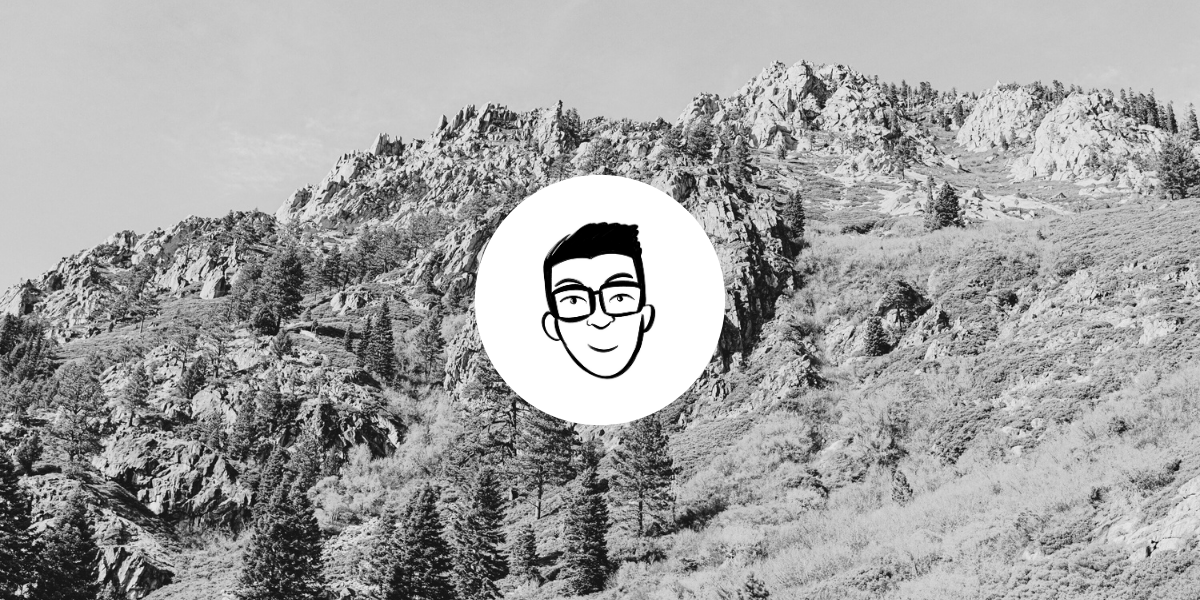
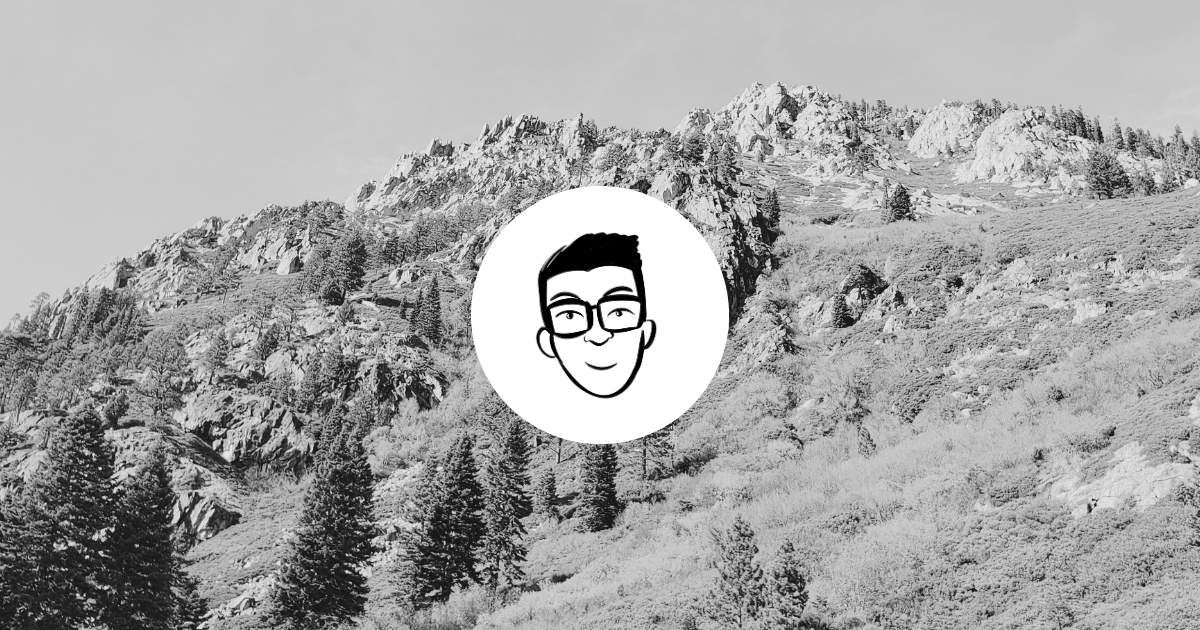
Update og tags

diff --git a/writing/20/index.html b/writing/20/index.html
@@ -3,8 +3,8 @@
 	<meta charset="UTF-8" />
 	<meta http-equiv="X-UA-Compatible" content="IE=edge,chrome=1">
 	<meta name="viewport" content="width=device-width, initial-scale=1.0">
-	<title>Frank Chen</title>
-	<meta name="description" content="PM @ Microsoft" />
+	<title>Turning 20 · Frank Chen</title>
+	<meta name="description" content="Product work on AI &amp; personalization at Tubi. Previously Typeface, Twitter, &amp; Microsoft. Drawing, photos, and writing" />
 	<meta name="keywords" content="" />
 	<meta name="author" content="kfrankc" />
 
@@ -39,8 +39,10 @@ Turning 20 is amazing. The moment when the tens-digit of your age changes is alw
     <meta property="article:section" content="writing">
     <meta property="article:published_time" content="2015-01-04T00:00:00+00:00">
     <meta property="article:modified_time" content="2015-01-04T00:00:00+00:00">
-    <meta property="og:image" content="https://kfrankc.com/">
+    <meta property="og:image" content="https://kfrankc.com/card.png">
 
+	<meta property="og:image:width" content="1200" />
+	<meta property="og:image:height" content="630" />
 	
       <script async src="https://www.googletagmanager.com/gtag/js?id=G-366849346"></script>
       <script>
@@ -58,7 +60,7 @@ Turning 20 is amazing. The moment when the tens-digit of your age changes is alw
       </script>
 	
   <meta name="twitter:card" content="summary_large_image">
-  <meta name="twitter:image" content="https://kfrankc.com/">
+  <meta name="twitter:image" content="https://kfrankc.com/card.png">
   <meta name="twitter:title" content="Turning 20">
   <meta name="twitter:description" content="Yesterday, my parents celebrated my birthday early, because I’ll be at college during my actual birthday later in January. Usually, I reflect about being 1 year older AFTER my birthday, but since I’ve been having this ‘early celebration’ for a while, so I thought I’ll jot down some of my thoughts about the big two-zero now.
 Turning 20 is amazing. The moment when the tens-digit of your age changes is always a milestone. Turning 20 brings much introspection. I am near the middle of my college career, and my thoughts about occupations, relationships, and ‘oh no what am i going to do with my life’ are all slowly conglomerating into this fantastic but subtle transition from teenager to adult. Turning 20 gives me strength. To my surprise. I feel more energetic now than I have ever before, but I have to give that energy direction and purpose. Kind of like an adolescent padawan — full of the youthful force, but not sure where to use it and how to use it correctly. Turning 20 reinforces me to keep an open-mind. Looking back, all my life experiences — the places I lived in; the high schools I went to; the jobs I worked at — they all taught me one, simple, universal truth about human beings: we all have a story. Not necessarily a story to tell, but a story; it could be simple, complex, sad, happy, exciting, plain, but it is a unique story. Some told their story to the world and inspired millions of people; some shared their story with their close families; some kept their stories to themselves. Such a beautiful world we live in! Misunderstandings happen, and people are sensitive, especially among the young adult population; I aspire to be someone who is willing to listen; I aspire to be a story listener. Turning 20 scares me, just a little. Well. I guess I am not scared by the fact that I am turning 20, but more likely by the fact that time inconspicuously flies by. Time has an interesting property to be warped in our perception; I guess it’s not something that can be explained by physics, but it seemed like yesterday when I was posing for a photo in front of my kindergarten in China, before my first day of school. However, I believe time is fair. We all age the same; it is up to us to decide what we want to accomplish every year. Turning 20 excites me. I look forward to all that I will learn, all that I will experience. Here’s to a great year.">

diff --git a/writing/human-intelligence/index.html b/writing/human-intelligence/index.html
@@ -3,8 +3,8 @@
 	<meta charset="UTF-8" />
 	<meta http-equiv="X-UA-Compatible" content="IE=edge,chrome=1">
 	<meta name="viewport" content="width=device-width, initial-scale=1.0">
-	<title>Frank Chen</title>
-	<meta name="description" content="PM @ Microsoft" />
+	<title>Human learning &amp; intelligence · Frank Chen</title>
+	<meta name="description" content="Product work on AI &amp; personalization at Tubi. Previously Typeface, Twitter, &amp; Microsoft. Drawing, photos, and writing" />
 	<meta name="keywords" content="" />
 	<meta name="author" content="kfrankc" />
 
@@ -39,8 +39,10 @@ In the prior section, Prof. Zhu gives an extended example of a common crow that 
     <meta property="article:section" content="writing">
     <meta property="article:published_time" content="2018-01-08T00:00:00+00:00">
     <meta property="article:modified_time" content="2018-01-08T00:00:00+00:00">
-    <meta property="og:image" content="https://kfrankc.com/">
+    <meta property="og:image" content="https://kfrankc.com/card.png">
 
+	<meta property="og:image:width" content="1200" />
+	<meta property="og:image:height" content="630" />
 	
       <script async src="https://www.googletagmanager.com/gtag/js?id=G-366849346"></script>
       <script>
@@ -58,7 +60,7 @@ In the prior section, Prof. Zhu gives an extended example of a common crow that 
       </script>
 	
   <meta name="twitter:card" content="summary_large_image">
-  <meta name="twitter:image" content="https://kfrankc.com/">
+  <meta name="twitter:image" content="https://kfrankc.com/card.png">
   <meta name="twitter:title" content="Human learning & intelligence">
   <meta name="twitter:description" content="I recently finished reading Prof. Song-Chun Zhu’s 60K&#43; character article on Artificial Intelligence (AI) over the holidays. One part of Prof. Zhu’s essay that caught my attention was Section 4, where he discusses the cognitive framework of AI research.
 In the prior section, Prof. Zhu gives an extended example of a common crow that not only learned how to take advantage of passing cars to crack open nuts for the bird to eat, but also intentionally dropping the nut on pedestrian crosswalks so that the bird won’t be run over by vehicles as it swoops down to eat the nut. Prof. Zhu postulates that the crow’s intelligence is a direct product of both its physical environment and its will to survive. He calls these 物理环境客观的现实与因果链条 (objective reality of the physical environment and the causal chain) and 智能物种与生俱来的任务与价值链条 (inherent task of intelligent species and value chain). An agent that exhibits these two conditions will be able to live autonomously when placed in a given environment and social group. In fact, the agent will learn the following: “认识世界、利用世界、改造世界”.">

diff --git a/writing/lukas-wangfeng/index.html b/writing/lukas-wangfeng/index.html
@@ -3,8 +3,8 @@
 	<meta charset="UTF-8" />
 	<meta http-equiv="X-UA-Compatible" content="IE=edge,chrome=1">
 	<meta name="viewport" content="width=device-width, initial-scale=1.0">
-	<title>Frank Chen</title>
-	<meta name="description" content="PM @ Microsoft" />
+	<title>Lukas Graham &amp; 汪峰 · Frank Chen</title>
+	<meta name="description" content="Product work on AI &amp; personalization at Tubi. Previously Typeface, Twitter, &amp; Microsoft. Drawing, photos, and writing" />
 	<meta name="keywords" content="" />
 	<meta name="author" content="kfrankc" />
 
@@ -39,8 +39,10 @@
     <meta property="article:section" content="writing">
     <meta property="article:published_time" content="2018-03-13T00:00:00+00:00">
     <meta property="article:modified_time" content="2018-03-13T00:00:00+00:00">
-    <meta property="og:image" content="https://kfrankc.com/">
+    <meta property="og:image" content="https://kfrankc.com/card.png">
 
+	<meta property="og:image:width" content="1200" />
+	<meta property="og:image:height" content="630" />
 	
       <script async src="https://www.googletagmanager.com/gtag/js?id=G-366849346"></script>
       <script>
@@ -58,7 +60,7 @@
       </script>
 	
   <meta name="twitter:card" content="summary_large_image">
-  <meta name="twitter:image" content="https://kfrankc.com/">
+  <meta name="twitter:image" content="https://kfrankc.com/card.png">
   <meta name="twitter:title" content="Lukas Graham & 汪峰">
   <meta name="twitter:description" content="Last night at home, I heard Chinese singer 汪峰’s hit song from 2017, titled ‘那年我五岁’ (That year when I was five), and surprisingly, I found that the lyrics and even the music video parallels the song ‘7 Years’ from Danish band Lukas Graham. After scrolling through the Internet, I have yet to find anyone else juxtaposing these two songs; henceforth, here’s my take:
 ‘7 Years’ is a single from Lukas Graham’s second studio album, released on September 15, 2015. It topped at #2 at Billboard Hot 100, and was nominated for three Grammy Awards: Record of the Year, Song of the Year, and Best Pop Duo/Group Performance. ‘那年我五岁’ is 汪峰’s latest single, released on October 12, 2017. 汪峰 actually took a 5 month break from performances and concerts to concentrate and work on this song. It is a very long song, clocking in at 10 minutes 45 seconds.">

diff --git a/writing/query-languages/index.html b/writing/query-languages/index.html
@@ -3,8 +3,8 @@
 	<meta charset="UTF-8" />
 	<meta http-equiv="X-UA-Compatible" content="IE=edge,chrome=1">
 	<meta name="viewport" content="width=device-width, initial-scale=1.0">
-	<title>Frank Chen</title>
-	<meta name="description" content="PM @ Microsoft" />
+	<title>Relational algebra &amp; SQL · Frank Chen</title>
+	<meta name="description" content="Product work on AI &amp; personalization at Tubi. Previously Typeface, Twitter, &amp; Microsoft. Drawing, photos, and writing" />
 	<meta name="keywords" content="" />
 	<meta name="author" content="kfrankc" />
 
@@ -39,8 +39,10 @@ Relational Algebra is an algebra where operands are defined as relations, or var
     <meta property="article:section" content="writing">
     <meta property="article:published_time" content="2019-02-09T00:00:00+00:00">
     <meta property="article:modified_time" content="2019-02-09T00:00:00+00:00">
-    <meta property="og:image" content="https://kfrankc.com/">
+    <meta property="og:image" content="https://kfrankc.com/card.png">
 
+	<meta property="og:image:width" content="1200" />
+	<meta property="og:image:height" content="630" />
 	
       <script async src="https://www.googletagmanager.com/gtag/js?id=G-366849346"></script>
       <script>
@@ -58,7 +60,7 @@ Relational Algebra is an algebra where operands are defined as relations, or var
       </script>
 	
   <meta name="twitter:card" content="summary_large_image">
-  <meta name="twitter:image" content="https://kfrankc.com/">
+  <meta name="twitter:image" content="https://kfrankc.com/card.png">
   <meta name="twitter:title" content="Relational algebra & SQL">
   <meta name="twitter:description" content="Query languages (computer languages used to make queries in databases) are abundant in style and usage today. In 2018, Microsoft released Azure Data Explorer to GA, introducing another query language that is specifically optimized for semi-structured, unstructured, and time-series data. Even though we have many querying language options, they are all grounded in a field of mathematics called relational algebra.
 Relational Algebra is an algebra where operands are defined as relations, or variables that represent relations. This is why relational algebra provides the basis for a query language in relational databases.">

diff --git a/writing/lazy-load-images/index.html b/writing/lazy-load-images/index.html
@@ -3,8 +3,8 @@
 	<meta charset="UTF-8" />
 	<meta http-equiv="X-UA-Compatible" content="IE=edge,chrome=1">
 	<meta name="viewport" content="width=device-width, initial-scale=1.0">
-	<title>Frank Chen</title>
-	<meta name="description" content="PM @ Microsoft" />
+	<title>Lazy-load images · Frank Chen</title>
+	<meta name="description" content="Product work on AI &amp; personalization at Tubi. Previously Typeface, Twitter, &amp; Microsoft. Drawing, photos, and writing" />
 	<meta name="keywords" content="" />
 	<meta name="author" content="kfrankc" />
 
@@ -39,8 +39,10 @@ I ran Lighthouse on the previous version of my drawings page, and got the follow
     <meta property="article:section" content="writing">
     <meta property="article:published_time" content="2020-09-14T00:00:00+00:00">
     <meta property="article:modified_time" content="2020-09-14T00:00:00+00:00">
-    <meta property="og:image" content="https://kfrankc.com/">
+    <meta property="og:image" content="https://kfrankc.com/card.png">
 
+	<meta property="og:image:width" content="1200" />
+	<meta property="og:image:height" content="630" />
 	
       <script async src="https://www.googletagmanager.com/gtag/js?id=G-366849346"></script>
       <script>
@@ -58,7 +60,7 @@ I ran Lighthouse on the previous version of my drawings page, and got the follow
       </script>
 	
   <meta name="twitter:card" content="summary_large_image">
-  <meta name="twitter:image" content="https://kfrankc.com/">
+  <meta name="twitter:image" content="https://kfrankc.com/card.png">
   <meta name="twitter:title" content="Lazy-load images">
   <meta name="twitter:description" content="Recently, I’ve been interested in improving the performance of my website, especially on the ‘Drawings’ page, where I showcase some of my artwork. Images are often the most common cause of poor website performance, due to their large file size. I found a neat tool called Lighthouse that helps debug performance issues and provide suggestions for improvements.
 I ran Lighthouse on the previous version of my drawings page, and got the following:">

diff --git a/writing/lessons-microsoft/index.html b/writing/lessons-microsoft/index.html
@@ -3,8 +3,8 @@
 	<meta charset="UTF-8" />
 	<meta http-equiv="X-UA-Compatible" content="IE=edge,chrome=1">
 	<meta name="viewport" content="width=device-width, initial-scale=1.0">
-	<title>Frank Chen</title>
-	<meta name="description" content="PM @ Microsoft" />
+	<title>1 Year @ Microsoft · Frank Chen</title>
+	<meta name="description" content="Product work on AI &amp; personalization at Tubi. Previously Typeface, Twitter, &amp; Microsoft. Drawing, photos, and writing" />
 	<meta name="keywords" content="" />
 	<meta name="author" content="kfrankc" />
 
@@ -39,8 +39,10 @@ As 2018 comes to a close, I thought I’d share some of the lessons I learned th
     <meta property="article:section" content="writing">
     <meta property="article:published_time" content="2018-12-28T00:00:00+00:00">
     <meta property="article:modified_time" content="2018-12-28T00:00:00+00:00">
-    <meta property="og:image" content="https://kfrankc.com/">
+    <meta property="og:image" content="https://kfrankc.com/card.png">
 
+	<meta property="og:image:width" content="1200" />
+	<meta property="og:image:height" content="630" />
 	
       <script async src="https://www.googletagmanager.com/gtag/js?id=G-366849346"></script>
       <script>
@@ -58,7 +60,7 @@ As 2018 comes to a close, I thought I’d share some of the lessons I learned th
       </script>
 	
   <meta name="twitter:card" content="summary_large_image">
-  <meta name="twitter:image" content="https://kfrankc.com/">
+  <meta name="twitter:image" content="https://kfrankc.com/card.png">
   <meta name="twitter:title" content="1 Year @ Microsoft">
   <meta name="twitter:description" content="This was originally published on LinkedIn .
 As 2018 comes to a close, I thought I’d share some of the lessons I learned this past year as a Program Manager at Microsoft. These opinions and observations are my own, and should be taken with the understanding that everyone’s professional journey is different. Some of these apply directly to the Program Management discipline, while others apply to anyone starting their first full-time job.">

diff --git a/writing/zhangyiming-quotes/index.html b/writing/zhangyiming-quotes/index.html
@@ -3,8 +3,8 @@
 	<meta charset="UTF-8" />
 	<meta http-equiv="X-UA-Compatible" content="IE=edge,chrome=1">
 	<meta name="viewport" content="width=device-width, initial-scale=1.0">
-	<title>Frank Chen</title>
-	<meta name="description" content="PM @ Microsoft" />
+	<title>张一鸣 quotes · Frank Chen</title>
+	<meta name="description" content="Product work on AI &amp; personalization at Tubi. Previously Typeface, Twitter, &amp; Microsoft. Drawing, photos, and writing" />
 	<meta name="keywords" content="" />
 	<meta name="author" content="kfrankc" />
 
@@ -38,8 +38,10 @@
     <meta property="article:section" content="writing">
     <meta property="article:published_time" content="2021-03-20T00:00:00+00:00">
     <meta property="article:modified_time" content="2021-03-20T00:00:00+00:00">
-    <meta property="og:image" content="https://kfrankc.com/">
+    <meta property="og:image" content="https://kfrankc.com/card.png">
 
+	<meta property="og:image:width" content="1200" />
+	<meta property="og:image:height" content="630" />
 	
       <script async src="https://www.googletagmanager.com/gtag/js?id=G-366849346"></script>
       <script>
@@ -57,7 +59,7 @@
       </script>
 	
   <meta name="twitter:card" content="summary_large_image">
-  <meta name="twitter:image" content="https://kfrankc.com/">
+  <meta name="twitter:image" content="https://kfrankc.com/card.png">
   <meta name="twitter:title" content="张一鸣 quotes">
   <meta name="twitter:description" content="Zhang Yiming (张一鸣) is the billionaire founder of Chinese internet company ByteDance, which develops a variety of apps, including the short-form video sharing platform TikTok. In his early 30s, while building his first startup, Zhang was also a prolific blogger, leaving a lot of his thoughts on work ethics, life philosophy, and relationship management on Weibo. These snippets from the early 2010s are especially interesting to look at now, considering his success in building a valuable technology giant in the post-Baidu, post-Alibaba, and post-Tencent tech landscape.">
 

diff --git a/writing/film-tv-2021/index.html b/writing/film-tv-2021/index.html
@@ -3,8 +3,8 @@
 	<meta charset="UTF-8" />
 	<meta http-equiv="X-UA-Compatible" content="IE=edge,chrome=1">
 	<meta name="viewport" content="width=device-width, initial-scale=1.0">
-	<title>Frank Chen</title>
-	<meta name="description" content="PM @ Microsoft" />
+	<title>Films &amp; TV in quarantine (part 2) · Frank Chen</title>
+	<meta name="description" content="Product work on AI &amp; personalization at Tubi. Previously Typeface, Twitter, &amp; Microsoft. Drawing, photos, and writing" />
 	<meta name="keywords" content="" />
 	<meta name="author" content="kfrankc" />
 
@@ -40,8 +40,10 @@ Primer - An indie scifi with an extremely low budget ($7K!), and showcases perha
     <meta property="article:section" content="writing">
     <meta property="article:published_time" content="2021-12-15T00:00:00+00:00">
     <meta property="article:modified_time" content="2021-12-15T00:00:00+00:00">
-    <meta property="og:image" content="https://kfrankc.com/">
+    <meta property="og:image" content="https://kfrankc.com/card.png">
 
+	<meta property="og:image:width" content="1200" />
+	<meta property="og:image:height" content="630" />
 	
       <script async src="https://www.googletagmanager.com/gtag/js?id=G-366849346"></script>
       <script>
@@ -59,7 +61,7 @@ Primer - An indie scifi with an extremely low budget ($7K!), and showcases perha
       </script>
 	
   <meta name="twitter:card" content="summary_large_image">
-  <meta name="twitter:image" content="https://kfrankc.com/">
+  <meta name="twitter:image" content="https://kfrankc.com/card.png">
   <meta name="twitter:title" content="Films & TV in quarantine (part 2)">
   <meta name="twitter:description" content="Possessor - A scifi horror that blends the ‘sleeve’ technology concept of Altered Carbon with the cosmic suspense of Black Mirror
 The Trial of the Chicago 7 - A historical legal drama with director/writer Aaron Sorkin’s iconic fast-paced dialogues and an ensemble cast, including Succession’s Jeremy Strong (I didn’t even recognize him as Jerry Rubin!)

diff --git a/writing/jon-stewart/index.html b/writing/jon-stewart/index.html
@@ -3,8 +3,8 @@
 	<meta charset="UTF-8" />
 	<meta http-equiv="X-UA-Compatible" content="IE=edge,chrome=1">
 	<meta name="viewport" content="width=device-width, initial-scale=1.0">
-	<title>Frank Chen</title>
-	<meta name="description" content="PM @ Microsoft" />
+	<title>Thank you Jon · Frank Chen</title>
+	<meta name="description" content="Product work on AI &amp; personalization at Tubi. Previously Typeface, Twitter, &amp; Microsoft. Drawing, photos, and writing" />
 	<meta name="keywords" content="" />
 	<meta name="author" content="kfrankc" />
 
@@ -40,8 +40,10 @@ I was not there to watch The Daily Show in the very beginning. I was not there t
     <meta property="article:section" content="writing">
     <meta property="article:published_time" content="2015-08-07T00:00:00+00:00">
     <meta property="article:modified_time" content="2015-08-07T00:00:00+00:00">
-    <meta property="og:image" content="https://kfrankc.com/">
+    <meta property="og:image" content="https://kfrankc.com/card.png">
 
+	<meta property="og:image:width" content="1200" />
+	<meta property="og:image:height" content="630" />
 	
       <script async src="https://www.googletagmanager.com/gtag/js?id=G-366849346"></script>
       <script>
@@ -59,7 +61,7 @@ I was not there to watch The Daily Show in the very beginning. I was not there t
       </script>
 	
   <meta name="twitter:card" content="summary_large_image">
-  <meta name="twitter:image" content="https://kfrankc.com/">
+  <meta name="twitter:image" content="https://kfrankc.com/card.png">
   <meta name="twitter:title" content="Thank you Jon">
   <meta name="twitter:description" content="“The best defense against bullshit is vigilance. So if you smell something, say something.” — Jon Stewart
 On Thursday, Comedy Central bid its final farewell to comedian Jon Stewart on The Daily Show. For 16 years, Jon scrutinized media, politicians, scandals, tragedies, and various controversies, using humor as his medium to give Americans a second lens into the world we live in today.

diff --git a/404.html b/404.html
@@ -3,8 +3,8 @@
 	<meta charset="UTF-8" />
 	<meta http-equiv="X-UA-Compatible" content="IE=edge,chrome=1">
 	<meta name="viewport" content="width=device-width, initial-scale=1.0">
-	<title>Frank Chen</title>
-	<meta name="description" content="PM @ Microsoft" />
+	<title>404 Page not found · Frank Chen</title>
+	<meta name="description" content="Product work on AI &amp; personalization at Tubi. Previously Typeface, Twitter, &amp; Microsoft. Drawing, photos, and writing" />
 	<meta name="keywords" content="" />
 	<meta name="author" content="kfrankc" />
 
@@ -32,11 +32,13 @@
 	<meta property="og:url" content="https://kfrankc.com/404.html">
   <meta property="og:site_name" content="Frank Chen">
   <meta property="og:title" content="404 Page not found">
-  <meta property="og:description" content="PM @ Microsoft">
+  <meta property="og:description" content="Product work on AI &amp; personalization at Tubi. Previously Typeface, Twitter, &amp; Microsoft. Drawing, photos, and writing">
   <meta property="og:locale" content="en_us">
   <meta property="og:type" content="website">
-    <meta property="og:image" content="https://kfrankc.com/">
+    <meta property="og:image" content="https://kfrankc.com/card.png">
 
+	<meta property="og:image:width" content="1200" />
+	<meta property="og:image:height" content="630" />
 	
       <script async src="https://www.googletagmanager.com/gtag/js?id=G-366849346"></script>
       <script>
@@ -54,9 +56,9 @@
       </script>
 	
   <meta name="twitter:card" content="summary_large_image">
-  <meta name="twitter:image" content="https://kfrankc.com/">
+  <meta name="twitter:image" content="https://kfrankc.com/card.png">
   <meta name="twitter:title" content="404 Page not found">
-  <meta name="twitter:description" content="PM @ Microsoft">
+  <meta name="twitter:description" content="Product work on AI &amp; personalization at Tubi. Previously Typeface, Twitter, &amp; Microsoft. Drawing, photos, and writing">
 
 </head>
     <body><section class="section pt-5">

diff --git a/writing/jekyll-masonry/index.html b/writing/jekyll-masonry/index.html
@@ -3,8 +3,8 @@
 	<meta charset="UTF-8" />
 	<meta http-equiv="X-UA-Compatible" content="IE=edge,chrome=1">
 	<meta name="viewport" content="width=device-width, initial-scale=1.0">
-	<title>Frank Chen</title>
-	<meta name="description" content="PM @ Microsoft" />
+	<title>Responsive Jekyll portfolio · Frank Chen</title>
+	<meta name="description" content="Product work on AI &amp; personalization at Tubi. Previously Typeface, Twitter, &amp; Microsoft. Drawing, photos, and writing" />
 	<meta name="keywords" content="" />
 	<meta name="author" content="kfrankc" />
 
@@ -40,8 +40,10 @@ I later switched to Minimal Mistakes, which is theme academicpages forked from. 
     <meta property="article:section" content="writing">
     <meta property="article:published_time" content="2019-03-07T00:00:00+00:00">
     <meta property="article:modified_time" content="2019-03-07T00:00:00+00:00">
-    <meta property="og:image" content="https://kfrankc.com/">
+    <meta property="og:image" content="https://kfrankc.com/card.png">
 
+	<meta property="og:image:width" content="1200" />
+	<meta property="og:image:height" content="630" />
 	
       <script async src="https://www.googletagmanager.com/gtag/js?id=G-366849346"></script>
       <script>
@@ -59,7 +61,7 @@ I later switched to Minimal Mistakes, which is theme academicpages forked from. 
       </script>
 	
   <meta name="twitter:card" content="summary_large_image">
-  <meta name="twitter:image" content="https://kfrankc.com/">
+  <meta name="twitter:image" content="https://kfrankc.com/card.png">
   <meta name="twitter:title" content="Responsive Jekyll portfolio">
   <meta name="twitter:description" content="I built this site using Hugo. I built the previous version using Jekyll and Masonry
 My first experience using Jekyll for building a personal website was with academicpages, which is an excellent theme that is mostly catered to, as you guessed, people in academia: it included many built-in front matter to list papers, publications, and talks.

diff --git a/writing/chinese-life-advice/index.html b/writing/chinese-life-advice/index.html
@@ -3,8 +3,8 @@
 	<meta charset="UTF-8" />
 	<meta http-equiv="X-UA-Compatible" content="IE=edge,chrome=1">
 	<meta name="viewport" content="width=device-width, initial-scale=1.0">
-	<title>Frank Chen</title>
-	<meta name="description" content="PM @ Microsoft" />
+	<title>左宗棠 · Frank Chen</title>
+	<meta name="description" content="Product work on AI &amp; personalization at Tubi. Previously Typeface, Twitter, &amp; Microsoft. Drawing, photos, and writing" />
 	<meta name="keywords" content="" />
 	<meta name="author" content="kfrankc" />
 
@@ -40,8 +40,10 @@ The story starts with a typical post-dinner discussion with my dad. We enjoy sip
     <meta property="article:section" content="writing">
     <meta property="article:published_time" content="2017-06-27T00:00:00+00:00">
     <meta property="article:modified_time" content="2017-06-27T00:00:00+00:00">
-    <meta property="og:image" content="https://kfrankc.com/">
+    <meta property="og:image" content="https://kfrankc.com/card.png">
 
+	<meta property="og:image:width" content="1200" />
+	<meta property="og:image:height" content="630" />
 	
       <script async src="https://www.googletagmanager.com/gtag/js?id=G-366849346"></script>
       <script>
@@ -59,7 +61,7 @@ The story starts with a typical post-dinner discussion with my dad. We enjoy sip
       </script>
 	
   <meta name="twitter:card" content="summary_large_image">
-  <meta name="twitter:image" content="https://kfrankc.com/">
+  <meta name="twitter:image" content="https://kfrankc.com/card.png">
   <meta name="twitter:title" content="左宗棠">
   <meta name="twitter:description" content="I completed my undergraduate degree this past June. Like many new grads preparing to work in industry, I feel nervous about making a smooth transition from being a student to being a working-class young adult. Where do I go from here? How do I live a good life?
 Last night, I found some reassurance in a quote by a Chinese official in the 清 (Qīng) Dynasty.
